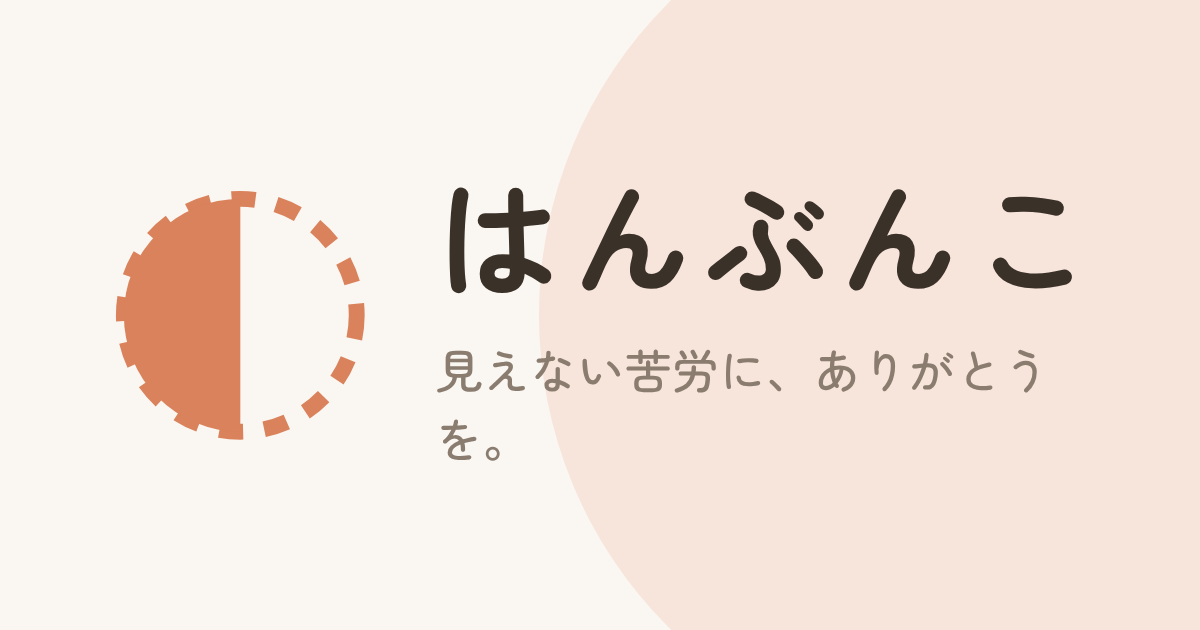
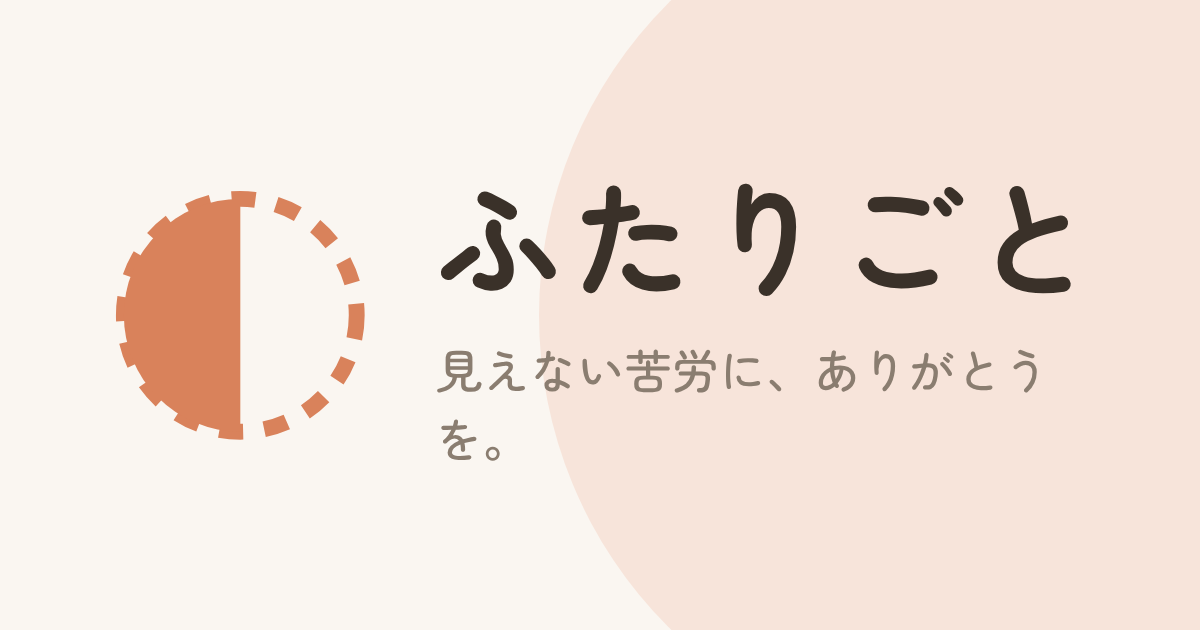
アプリの名前が「ふたりごと」になる
画面・通知・ホーム画面の名前・ストア掲載文・フィーチャーグラフィック・LP・規約とポリシーの表示名を「はんぶんこ」から「ふたりごと」に変える。パッケージ名・リポジトリ名・内部のキー名はそのまま。

Claude-Session: https://claude.ai/code/session_017VbUpyNYRvyEQKmmkx8HjW

Changed region(s): [[0.37, 0.2714, 0.8017, 0.4825], [0.8325, 0.3016, 0.8942, 0.4825]]

diff --git a/site/index.html b/site/index.html
@@ -3,9 +3,9 @@
 <head>
 <meta charset="utf-8">
 <meta name="viewport" content="width=device-width,initial-scale=1,viewport-fit=cover">
-<title>はんぶんこ｜半分だけ決めて、残りは2人で</title>
+<title>ふたりごと｜半分だけ決めて、残りは2人で</title>
 <meta name="description" content="予定もできごとも、半分だけ渡して残りは2人で埋める。位置も既読も見ない、パートナー向けの共有アプリ。">
-<meta property="og:title" content="はんぶんこ｜半分だけ決めて、残りは2人で">
+<meta property="og:title" content="ふたりごと｜半分だけ決めて、残りは2人で">
 <meta property="og:description" content="予定もできごとも、半分だけ渡して残りは2人で埋める。位置も既読も見ない、パートナー向けの共有アプリ。">
 <meta property="og:type" content="website">
 <meta property="og:url" content="https://tenmusu10.github.io/hanbunko/">
@@ -87,9 +87,9 @@ footer a { color: inherit; }
 
 <header class="wrap hero">
   <div>
-    <div class="brand"><svg class="mark" style="color:var(--accent)"><use href="#half"/></svg>はんぶんこ</div>
+    <div class="brand"><svg class="mark" style="color:var(--accent)"><use href="#half"/></svg>ふたりごと</div>
     <h1>決めるのは、<em>半分だけ</em>。<br>残りは2人で。</h1>
-    <p class="lead">はんぶんこは、パートナーと2人で使う共有アプリです。完成したものを送り合うのではなく、半分だけ渡して、残りを相手が埋めます。足りないところがあるから、想像したり、話したり、一緒に決めたりする時間が生まれます。</p>
+    <p class="lead">ふたりごとは、パートナーと2人で使う共有アプリです。完成したものを送り合うのではなく、半分だけ渡して、残りを相手が埋めます。足りないところがあるから、想像したり、話したり、一緒に決めたりする時間が生まれます。</p>
     <div class="status"><b>いま試作中</b> Android 版を準備しています</div>
   </div>
   <div class="phone"><img src="img/yotei-half.png" width="390" height="760" alt="半分の予定の画面。「いつ」に土曜の夕方とだけ入れ、どこで・なにするは空いている。下には相手が「なにする：映画を観る」だけ置いた予定がある"></div>
@@ -134,7 +134,7 @@ footer a { color: inherit; }
 <section class="no" id="principles">
   <div class="wrap">
     <h2 class="sec-title">相手を確かめる機能は、つくりません</h2>
-    <p class="sec-lead">仲がいいときは便利でも、仲が悪いときに相手を責める材料になるものは入れない。それがはんぶんこの決まりです。</p>
+    <p class="sec-lead">仲がいいときは便利でも、仲が悪いときに相手を責める材料になるものは入れない。それがふたりごとの決まりです。</p>
     <div class="no-grid">
       <div class="no-item"><b>位置・既読・オンライン表示なし</b><span>最終ログインや「入力中」も出ません。残るのは作った日だけで、時刻も持ちません。</span></div>
       <div class="no-item"><b>連続記録も催促もなし</b><span>「返事がまだです」の通知は送りません。通知は1日1回のまとめだけ。</span></div>
@@ -176,7 +176,7 @@ footer a { color: inherit; }
 
 <footer>
   <div class="wrap">
-    <span><svg class="mark" style="color:var(--accent)"><use href="#half"/></svg> はんぶんこ</span>
+    <span><svg class="mark" style="color:var(--accent)"><use href="#half"/></svg> ふたりごと</span>
     <span><a href="privacy.html">プライバシーポリシー</a>　<a href="terms.html">利用規約</a>　<a href="https://github.com/tenmusu10/hanbunko">ソースコード</a></span>
   </div>
 </footer>

diff --git a/site/privacy.html b/site/privacy.html
@@ -3,7 +3,7 @@
 <head>
 <meta charset="utf-8">
 <meta name="viewport" content="width=device-width,initial-scale=1,viewport-fit=cover">
-<title>プライバシーポリシー｜はんぶんこ</title>
+<title>プライバシーポリシー｜ふたりごと</title>
 <!-- 外部の読み込みをしない。色と文字は index.html に合わせる。下書きの元は Claude Doc（スレッド「プライバシーポリシーと規約を書く」） -->
 <style>
 :root {
@@ -42,11 +42,11 @@ footer a { color: inherit; }
 <body>
 <svg width="0" height="0" style="position:absolute" aria-hidden="true"><symbol id="half" viewBox="0 0 100 100"><circle cx="50" cy="50" r="44" fill="none" stroke="currentColor" stroke-width="8" stroke-dasharray="10 9"/><path d="M50 6 A44 44 0 0 0 50 94 Z" fill="currentColor"/></symbol></svg>
 <header class="wrap">
-  <a class="brand" href="./"><svg class="mark" style="color:var(--accent)"><use href="#half"/></svg>はんぶんこ</a>
+  <a class="brand" href="./"><svg class="mark" style="color:var(--accent)"><use href="#half"/></svg>ふたりごと</a>
   <h1>プライバシーポリシー</h1>
 </header>
 <main class="wrap">
-<p class="lead">「はんぶんこ」（以下「本アプリ」）は、パートナーと2人だけで使うアプリです。本アプリは、相手を見張るための情報を集めないことを大前提に作っています。このポリシーでは、何を保存し、何を保存しないかを説明します。</p>
+<p class="lead">「ふたりごと」（以下「本アプリ」）は、パートナーと2人だけで使うアプリです。本アプリは、相手を見張るための情報を集めないことを大前提に作っています。このポリシーでは、何を保存し、何を保存しないかを説明します。</p>
 
 <h2>1. 運営者</h2>
 <p>本アプリは Cycle games（以下「運営者」）が個人で運営しています。お問い合わせは <a href="mailto:rokomoko.ten@gmail.com">rokomoko.ten@gmail.com</a> まで。</p>
@@ -115,7 +115,7 @@ footer a { color: inherit; }
 </main>
 <footer>
   <div class="wrap">
-    <span><svg class="mark" style="color:var(--accent)"><use href="#half"/></svg> はんぶんこ</span>
+    <span><svg class="mark" style="color:var(--accent)"><use href="#half"/></svg> ふたりごと</span>
     <span><a href="./">トップ</a>　<a href="privacy.html">プライバシーポリシー</a>　<a href="terms.html">利用規約</a></span>
   </div>
 </footer>

diff --git a/site/terms.html b/site/terms.html
@@ -3,7 +3,7 @@
 <head>
 <meta charset="utf-8">
 <meta name="viewport" content="width=device-width,initial-scale=1,viewport-fit=cover">
-<title>利用規約｜はんぶんこ</title>
+<title>利用規約｜ふたりごと</title>
 <!-- 外部の読み込みをしない。色と文字は index.html に合わせる。下書きの元は Claude Doc（スレッド「プライバシーポリシーと規約を書く」） -->
 <style>
 :root {
@@ -42,11 +42,11 @@ footer a { color: inherit; }
 <body>
 <svg width="0" height="0" style="position:absolute" aria-hidden="true"><symbol id="half" viewBox="0 0 100 100"><circle cx="50" cy="50" r="44" fill="none" stroke="currentColor" stroke-width="8" stroke-dasharray="10 9"/><path d="M50 6 A44 44 0 0 0 50 94 Z" fill="currentColor"/></symbol></svg>
 <header class="wrap">
-  <a class="brand" href="./"><svg class="mark" style="color:var(--accent)"><use href="#half"/></svg>はんぶんこ</a>
+  <a class="brand" href="./"><svg class="mark" style="color:var(--accent)"><use href="#half"/></svg>ふたりごと</a>
   <h1>利用規約</h1>
 </header>
 <main class="wrap">
-<p class="lead">この規約は、Cycle games（以下「運営者」）が提供する「はんぶんこ」（以下「本アプリ」）の使い方の約束です。本アプリを使うことで、この規約に同意したものとします。</p>
+<p class="lead">この規約は、Cycle games（以下「運営者」）が提供する「ふたりごと」（以下「本アプリ」）の使い方の約束です。本アプリを使うことで、この規約に同意したものとします。</p>
 
 <h2>第1条（本アプリの考え方）</h2>
 <p>本アプリは、2人が半分ずつ持ち寄って楽しむためのものです。相手を監視したり、行動を強いたりするために使わないでください。2人は常に対等で、どちらかが相手の設定を変えたり、相手の投稿を消したりすることはできません。</p>
@@ -109,7 +109,7 @@ footer a { color: inherit; }
 </main>
 <footer>
   <div class="wrap">
-    <span><svg class="mark" style="color:var(--accent)"><use href="#half"/></svg> はんぶんこ</span>
+    <span><svg class="mark" style="color:var(--accent)"><use href="#half"/></svg> ふたりごと</span>
     <span><a href="./">トップ</a>　<a href="privacy.html">プライバシーポリシー</a>　<a href="terms.html">利用規約</a></span>
   </div>
 </footer>

diff --git a/index.html b/index.html
@@ -3,7 +3,7 @@
 <head>
 <meta charset="utf-8">
 <meta name="viewport" content="width=device-width,initial-scale=1,viewport-fit=cover">
-<title>はんぶんこ</title>
+<title>ふたりごと</title>
 <link rel="stylesheet" href="style.css">
 <link rel="icon" href="icon.svg" type="image/svg+xml">
 <meta name="theme-color" content="#F4EFE6">
@@ -12,7 +12,7 @@
 <link rel="apple-touch-icon" href="icons/apple-touch-icon.png">
 <meta name="apple-mobile-web-app-capable" content="yes">
 <meta name="mobile-web-app-capable" content="yes">
-<meta name="apple-mobile-web-app-title" content="はんぶんこ">
+<meta name="apple-mobile-web-app-title" content="ふたりごと">
 <meta name="apple-mobile-web-app-status-bar-style" content="default">
 </head>
 <body>
@@ -23,12 +23,12 @@
 <header>
   <img src="icon.svg" alt="">
   <div>
-  <h1>はんぶんこ</h1>
+  <h1>ふたりごと</h1>
   <p class="sub">半分だけ届けて、残りは2人で。</p>
   </div>
 </header>
 <section id="pairScreen" role="main" hidden>
-  <p id="iosPairHint" class="card hint" hidden>iPhone の方へ：先に Safari の共有ボタン →「ホーム画面に追加」をして、ホーム画面のはんぶんこから招待をつくる・受け取ってください。Safari とホーム画面では保存場所が分かれるので、Safari でペアになってから追加すると、ホーム画面のほうでは2人の場所が開けません。</p>
+  <p id="iosPairHint" class="card hint" hidden>iPhone の方へ：先に Safari の共有ボタン →「ホーム画面に追加」をして、ホーム画面のふたりごとから招待をつくる・受け取ってください。Safari とホーム画面では保存場所が分かれるので、Safari でペアになってから追加すると、ホーム画面のほうでは2人の場所が開けません。</p>
   <div id="pNew" class="card compose">
     <p class="hint">2人だけの場所をつくります。どちらか1人が招待をつくり、コードを LINE などで相手に渡してください。中身はスマホの中で鍵をかけてから送るので、運営者にも読めません。書いたものは、次の日に相手に届きます（いつ開いたか・書いたかが伝わらないように）。</p>
     <button id="pCreate">招待をつくる</button>

diff --git a/js/app.js b/js/app.js
@@ -92,7 +92,7 @@ const App = {
       $('notifyHint').textContent = box.checked ? 'オンにしました。相手から新しく届いたものがある日だけ、夜9時ごろに1回お知らせします。' : 'オフにしました。';
     } catch (e) {
       box.checked = false; await Notify.disable();
-      $('notifyHint').textContent = e.message === 'denied' ? '通知が許可されていません。端末の設定で「はんぶんこ」の通知を許可してから、もう一度オンにしてください。' : '通知をオンにできませんでした。電波のよいところでもう一度試してください。';
+      $('notifyHint').textContent = e.message === 'denied' ? '通知が許可されていません。端末の設定で「ふたりごと」の通知を許可してから、もう一度オンにしてください。' : '通知をオンにできませんでした。電波のよいところでもう一度試してください。';
     }
     box.disabled = false;
   },
@@ -129,7 +129,7 @@ $('pJoin').onclick = async () => {
 };
 $('pShare').onclick = async () => {
   const text = $('pCode').value;
-  const msg = `はんぶんこの招待コード：\n${text}`, Share = window.Capacitor?.isNativePlatform?.() && window.Capacitor.Plugins?.Share;
+  const msg = `ふたりごとの招待コード：\n${text}`, Share = window.Capacitor?.isNativePlatform?.() && window.Capacitor.Plugins?.Share;
   // アプリ版の WebView には navigator.share が無いので、@capacitor/share で LINE などの共有シートを開く
   try {
     if (Share) await Share.share({ text: msg, dialogTitle: '招待コードを送る' });

diff --git a/tools/smoke.js b/tools/smoke.js
@@ -44,7 +44,7 @@ const ok = (cond, msg) => { console.log((cond ? 'OK   ' : 'FAIL ') + msg); if (!
   ok(await p.evaluate(async () => {
     const k = Crypt.newKey(), key = await Crypt.key(k), s = await Crypt.enc(key, { text: 'ひみつ' });
     const inv = Crypt.parseInvite(Crypt.invite('A'.repeat(20), k));
-    const msg = Crypt.parseInvite(`はんぶんこの招待コード：\n${Crypt.invite('B'.repeat(20), k)}\n`);
+    const msg = Crypt.parseInvite(`ふたりごとの招待コード：\n${Crypt.invite('B'.repeat(20), k)}\n`);
     return !s.includes('ひみつ') && (await Crypt.dec(key, s)).text === 'ひみつ' && inv && inv.key === k && msg && msg.pairId === 'B'.repeat(20) && !Crypt.parseInvite('abc') && !Crypt.parseInvite('x' + Crypt.invite('A'.repeat(20), k))
       && Crypt.parseInvite(Crypt.invite('C'.repeat(20), k).replace(/[!-~]/g, c => String.fromCharCode(c.charCodeAt(0) + 0xFEE0)))?.key === k;
   }), '暗号化と招待コード：鍵で戻せる・平文が残らない・届いた文ごと貼っても読める・全角で打っても読める・形の違うコードは受け付けない');

diff --git a/sw.js b/sw.js
@@ -2,7 +2,7 @@
 self.addEventListener('push', e => {
   let n = {};
   try { n = e.data.json().notification || {}; } catch (err) { /* 読めなくても決まった文を出す */ }
-  e.waitUntil(self.registration.showNotification(n.title || 'はんぶんこ', { body: n.body || '相手から届いたものがあります', icon: 'icon.svg', tag: 'digest' }));
+  e.waitUntil(self.registration.showNotification(n.title || 'ふたりごと', { body: n.body || '相手から届いたものがあります', icon: 'icon.svg', tag: 'digest' }));
 });
 self.addEventListener('notificationclick', e => {
   e.notification.close();

diff --git a/APP.md b/APP.md
@@ -55,13 +55,13 @@ npx cap open android   # Android Studio が開く（npm run android でも同じ
 
 ### C. Play Console でアプリを作り、最初の aab を手で上げる
 
-11. ~~**アプリを作成**~~（2026-10-29 済み）：アプリ名「はんぶんこ」、パッケージ名 `io.github.tenmusu10.hanbunko`（いまの Play Console は作成時に聞く。変えられない）、デフォルトの言語は**日本語 – ja-JP**（英語のままだと掲載情報の自動更新とずれる）、アプリ、無料
+11. ~~**アプリを作成**~~（2026-10-29 済み）：アプリ名「はんぶんこ」（2026-10-29 に「ふたりごと」へ改名。Play の表示名は STORE.md から「Play の掲載情報を更新」で変わる）、パッケージ名 `io.github.tenmusu10.hanbunko`（いまの Play Console は作成時に聞く。変えられない）、デフォルトの言語は**日本語 – ja-JP**（英語のままだと掲載情報の自動更新とずれる）、アプリ、無料
 12. ~~**テスト → 内部テスト** でリリースを作り、10 の aab を手で上げる~~（2026-10-29 済み・実機にインストール済み）（Play アプリ署名はオンのまま。難読化解除ファイル・デバッグシンボルの警告2件は無視してよい）。テスターはメーリングリストに自分の Gmail を入れて保存 →「ウェブで参加」のリンクを実機で開く。最初の公開直後は「アイテムが見つかりません」になり、見えるまで1時間ほどかかった
 13. **「アプリのコンテンツ」に答える**（下の「Play Console に入れる答え」をそのまま写す）
 
 ### D. 自動アップロード用のサービスアカウント
 
-14. **サービスアカウントを作る**（metabo-burst のものは使い回さず、はんぶんこ用に別に作る。漏れたときに両方止まらないように）
+14. **サービスアカウントを作る**（metabo-burst のものは使い回さず、ふたりごと用に別に作る。漏れたときに両方止まらないように）
     1. [Google Cloud コンソール](https://console.cloud.google.com/)でプロジェクトを選ぶ（Firebase の hanbunko-dba56 とは分けて、例 `hanbunko-release` を新しく作るのがおすすめ）
     2. 「API とサービス」→「ライブラリ」で **Google Play Android Developer API** を有効にする
     3. 「IAM と管理」→「サービス アカウント」→ 作成（名前は `play-release` など、ロールは付けない）→「鍵」→ JSON を作り、中身を Secrets の `PLAY_SERVICE_ACCOUNT_JSON` に貼ってパソコンのファイルは消す
@@ -96,7 +96,7 @@ npx cap open android   # Android Studio が開く（npm run android でも同じ
 アプリのアクセス権の説明文（審査の人がペアを作るため）：
 
 ```text
-はんぶんこは2人でペアになって使うアプリです。ログインやパスワードはありません。
+ふたりごとは2人でペアになって使うアプリです。ログインやパスワードはありません。
 1. 1台目でアプリを開き「招待をつくる」を押すと、招待コードが表示されます（「コードを送る」でメールなどに送れます）。
 2. 2台目でアプリを開き、「招待コードを貼る」欄にそのコードを貼って「ペアになる」を押すと、2台がペアになります。
 3. ペアになると「今日のかけら」「半分の予定」「見えない苦労」の3つのタブが使えます。片方で置いたものを、もう片方で埋めたり返事をしたりします。

diff --git a/CLAUDE.md b/CLAUDE.md
@@ -1,6 +1,6 @@
 # CLAUDE.md
 
-パートナー向けの2人用共有アプリ「はんぶんこ」。完成した情報を送り合うのではなく、半分だけ渡して残りを相手や会話が埋める。素の HTML/CSS/JS（ビルドなし・ライブラリなし）で作り、あとで Capacitor で Android アプリにする（メタボリック・バースト tenmusu10/metabo-burst と同じ作り方）。コンセプト文書：https://claude.ai/artifact/CJKbUFWYKJD91YpZbtE9Ep
+パートナー向けの2人用共有アプリ「ふたりごと」。完成した情報を送り合うのではなく、半分だけ渡して残りを相手や会話が埋める。素の HTML/CSS/JS（ビルドなし・ライブラリなし）で作り、あとで Capacitor で Android アプリにする（メタボリック・バースト tenmusu10/metabo-burst と同じ作り方）。コンセプト文書：https://claude.ai/artifact/CJKbUFWYKJD91YpZbtE9Ep
 
 ## 反束縛の原則（いちばん大事）
 

diff --git a/tools/persona-sim.md b/tools/persona-sim.md
@@ -22,7 +22,7 @@
 ## 役への指示（1人1日分。{ } を埋めて渡す）
 
 ```
-あなたは「はんぶんこ」というアプリを使っている {名前} です。下の人物書きの人として、今日1日を過ごしてください。
+あなたは「ふたりごと」というアプリを使っている {名前} です。下の人物書きの人として、今日1日を過ごしてください。
 作り手やテストの知識は使わず、画面に出ている字と、この人の性格・暮らし・今日の出来事だけで判断します。
 
 # あなたの人物書き

diff --git a/README.md b/README.md
@@ -1,4 +1,4 @@
-# はんぶんこ
+# ふたりごと
 
 半分だけ届けて、残りは2人で埋める、パートナー向けの共有アプリ。
 
